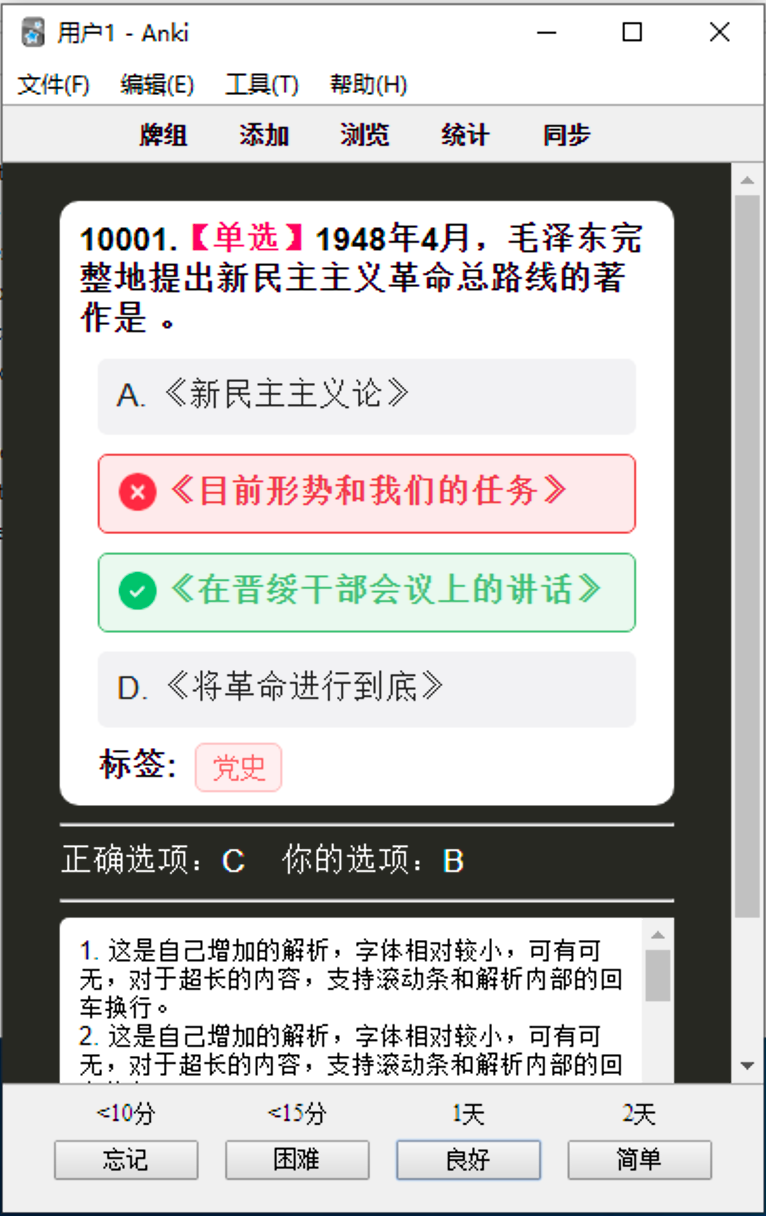
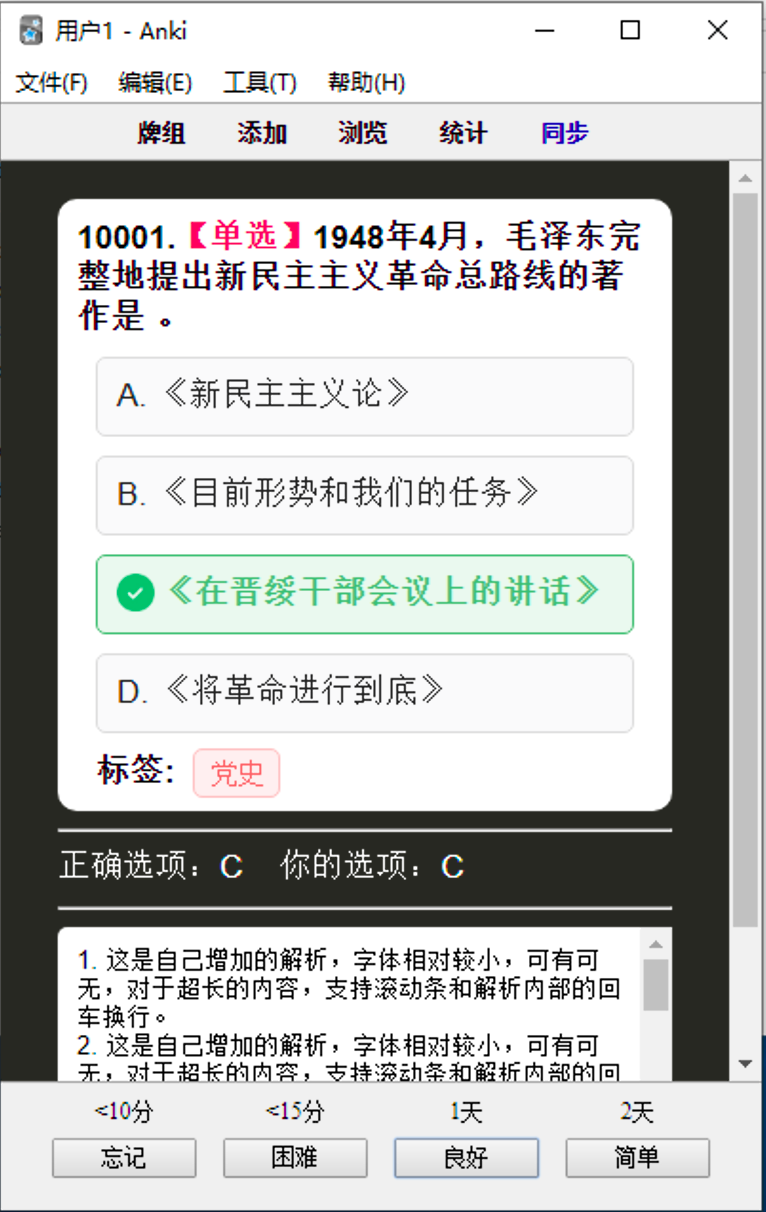
v3.5: 1. 样式调整，提高未选中选项的辨识度 2. 将延时时间从500毫秒增加到1500毫秒

diff --git a/front.html b/front.html
@@ -11,7 +11,7 @@
   </div>
 </div>
 
-<div class="footer">v3.4，作者：git9527，<a href="javascript:showSettings();">卡片设置</a>，开源地址：<a href="https://github.com/git9527/anki-awesome-select">Github</a> | <a href="https://gitee.com/git9527/anki-awesome-select">Gitee</a></div>
+<div class="footer">v3.5，作者：git9527，<a href="javascript:showSettings();">卡片设置</a>，开源地址：<a href="https://github.com/git9527/anki-awesome-select">Github</a> | <a href="https://gitee.com/git9527/anki-awesome-select">Gitee</a></div>
 
 <div id="answer" style="display:none">{{answer}}</div>
 <div id="options" style="display:none">{{options}}</div>
@@ -93,7 +93,7 @@
     if (delayOption === '1') {
       setTimeout(function () {
         document.getElementById("optionFront").innerHTML = liList
-      }, 500)
+      }, 1500)
     } else {
       document.getElementById("optionFront").innerHTML = liList
     }

diff --git a/back.html b/back.html
@@ -24,7 +24,7 @@
   <div class="notes-container">{{notes}}</div>
 </div>
 
-<div class="footer">v3.4，作者：git9527，开源地址：<a href="https://github.com/git9527/anki-awesome-select">Github</a> | <a href="https://gitee.com/git9527/anki-awesome-select">Gitee</a></div>
+<div class="footer">v3.5，作者：git9527，开源地址：<a href="https://github.com/git9527/anki-awesome-select">Github</a> | <a href="https://gitee.com/git9527/anki-awesome-select">Gitee</a></div>
 
 <div id="answer" style="display:none">{{answer}}</div>
 <div id="options" style="display:none">{{options}}</div>

diff --git a/README.md b/README.md
@@ -1,6 +1,10 @@
 # Anki的选择题模板
 
 ## 更新日志:
+v3.5:
+1. 样式调整，提高未选中选项的辨识度
+2. 将延时时间从500毫秒增加到1500毫秒
+
 v3.4:
 1. 修复当解析里仅含图片时不显示的问题
 2. 自动计算并调整最合适的解析框高度
@@ -66,7 +70,7 @@ v1.5:
 1. 显示类型：是否在问题前显示题目的类型（【单选】或【多选】）
 2. 隐藏选项：适用位置不变的速答题，是否将选项隐藏（仅显示第一个汉字)，记住位置
 3. 随机选项：是否将选项的位置随机打乱
-4. 延迟选项：是否延迟500毫秒显示选项
+4. 延迟选项：是否延迟1500毫秒显示选项
 5. 纯色模式：用于默认的淡色和纯色切换
 6. 隐藏解析：开启后，碰到有解析的卡片，先出现【显示解析】的按钮，点击按钮后才出现解析
 
